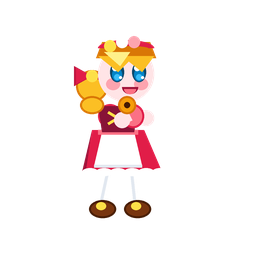
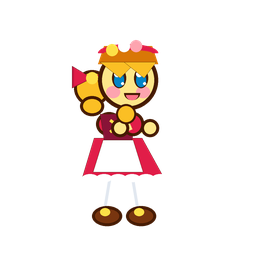
feat: redesign runner with authentic Cookie Run style 4 stages, character running physics, and magnetic jelly eating sparkle VFX

Changed region(s): [[0.2812, 0.125, 0.625, 0.9062]]

diff --git a/styles.css b/styles.css
@@ -929,24 +929,60 @@ body {
   z-index: 6;
 }
 
-/* Sweet Snacks along Ground Lane */
+/* Cookie Run Style Sweet Snack Eating Animation */
 .cr-jelly {
   position: absolute;
-  width: 46px;
-  height: 46px;
+  width: 48px;
+  height: 48px;
   object-fit: contain;
-  filter: drop-shadow(0 4px 6px rgba(0, 0, 0, 0.28));
-  will-change: transform;
+  filter: drop-shadow(0 4px 8px rgba(0, 0, 0, 0.35));
+  will-change: transform, opacity;
 }
 
 .cr-jelly.is-eaten {
-  animation: crSnackEat 0.4s ease-out forwards;
+  animation: crCookieRunEat 0.38s cubic-bezier(0.2, 0.8, 0.25, 1) forwards;
+  pointer-events: none;
 }
 
-@keyframes crSnackEat {
-  0% { opacity: 1; transform: scale(1); filter: brightness(1.5); }
-  45% { opacity: 0.95; transform: scale(1.35) translateY(-14px); filter: brightness(2) drop-shadow(0 0 12px #FDE047); }
-  100% { opacity: 0; transform: scale(0.2) translateY(-26px); }
+@keyframes crCookieRunEat {
+  0% {
+    opacity: 1;
+    transform: translate(0, 0) scale(1);
+    filter: brightness(1.2);
+  }
+  35% {
+    opacity: 1;
+    transform: translate(-22px, -18px) scale(1.28);
+    filter: brightness(1.7) drop-shadow(0 0 16px #FDE047);
+  }
+  100% {
+    opacity: 0;
+    transform: translate(-58px, -8px) scale(0.15);
+    filter: brightness(2);
+  }
+}
+
+/* Cookie Run Star Sparkle Dust on Eating */
+.cr-snack-sparkle {
+  position: absolute;
+  width: 9px;
+  height: 9px;
+  border-radius: 50%;
+  pointer-events: none;
+  z-index: 15;
+  animation: crSparkleFly 0.45s cubic-bezier(0.12, 0.9, 0.25, 1) forwards;
+}
+
+@keyframes crSparkleFly {
+  0% {
+    transform: translate(0, 0) scale(1.6);
+    opacity: 1;
+    filter: drop-shadow(0 0 8px #FDE047);
+  }
+  100% {
+    transform: translate(var(--tx, 0px), var(--ty, 0px)) scale(0);
+    opacity: 0;
+  }
 }
 
 .cr-hp-jelly {
@@ -962,7 +998,7 @@ body {
 }
 
 .cr-hp-jelly.is-eaten {
-  animation: crSnackEat 0.5s ease-in forwards;
+  animation: crCookieRunEat 0.5s ease-in forwards;
 }
 
 @keyframes crHpJellyIdle {

diff --git a/js/app.js b/js/app.js
@@ -1236,6 +1236,27 @@ class HancomTajaApp {
     }
   }
 
+  spawnJellySparkleBurst(x, y) {
+    if (!this.runnerJellyTrack) return;
+    const colors = ['#FDE047', '#F43F5E', '#38BDF8', '#A855F7', '#FFFFFF'];
+    const count = 5;
+    for (let i = 0; i < count; i++) {
+      const sp = document.createElement('div');
+      sp.className = 'cr-snack-sparkle';
+      const ang = (i / count) * 2 * Math.PI + (Math.random() * 0.4);
+      const dist = 24 + Math.random() * 22;
+      const tx = Math.cos(ang) * dist;
+      const ty = Math.sin(ang) * dist - 10;
+      sp.style.setProperty('--tx', `${tx}px`);
+      sp.style.setProperty('--ty', `${ty}px`);
+      sp.style.backgroundColor = colors[i % colors.length];
+      sp.style.left = `${x + 18}px`;
+      sp.style.top = `${y + 14}px`;
+      this.runnerJellyTrack.appendChild(sp);
+      setTimeout(() => sp.remove(), 450);
+    }
+  }
+
   updateRunnerJellies() {
     if (!this.runnerJellies) return;
     const scroll = this.runnerDashing ? 9.5 : 3.2;
@@ -1251,11 +1272,18 @@ class HancomTajaApp {
         j.el.style.top = `${j.y}px`;
       }
 
-      // Check if Gretel runs into the sweet snack on the ground
-      if (!j.eaten && !this.runnerFallen && j.x <= heroX + 35 && j.x >= heroX - 25) {
+      // Check if Gretel runs into the sweet snack on the ground (Cookie Run magnetic eating)
+      if (!j.eaten && !this.runnerFallen && j.x <= heroX + 40 && j.x >= heroX - 25) {
         j.eaten = true;
         if (j.el) {
           j.el.classList.add('is-eaten');
+          this.spawnJellySparkleBurst(j.x, j.y);
+          if (this.runnerCharWrap) {
+            this.runnerCharWrap.classList.add('is-nomming');
+            setTimeout(() => {
+              if (this.runnerCharWrap) this.runnerCharWrap.classList.remove('is-nomming');
+            }, 180);
+          }
           setTimeout(() => {
             if (j.el) j.el.remove();
           }, 380);
